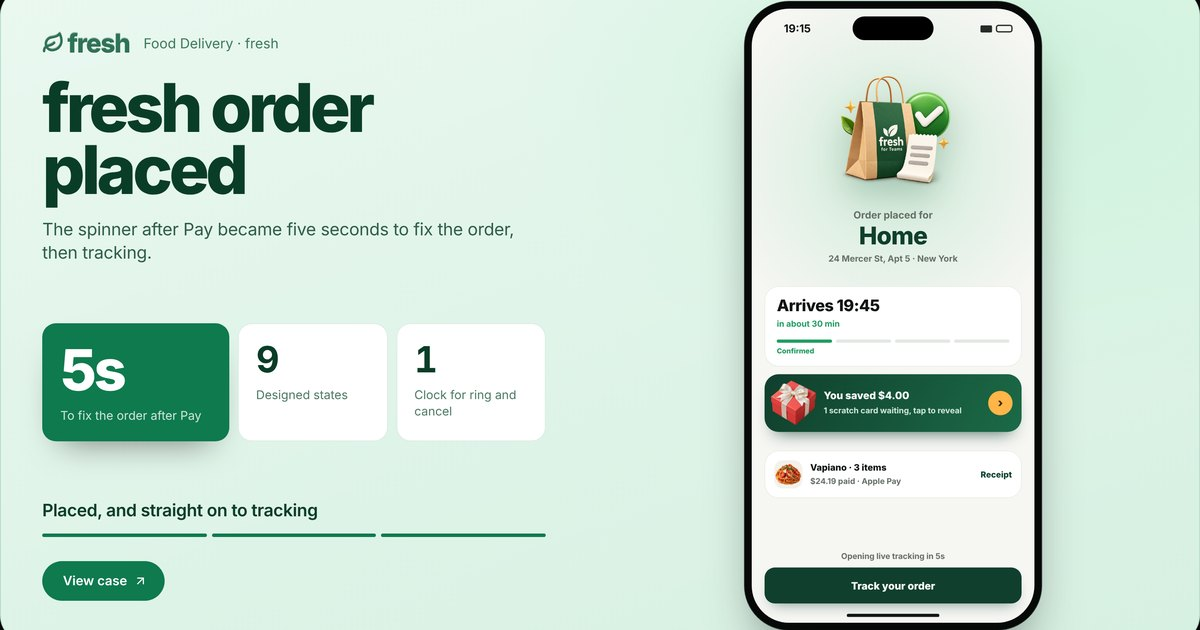
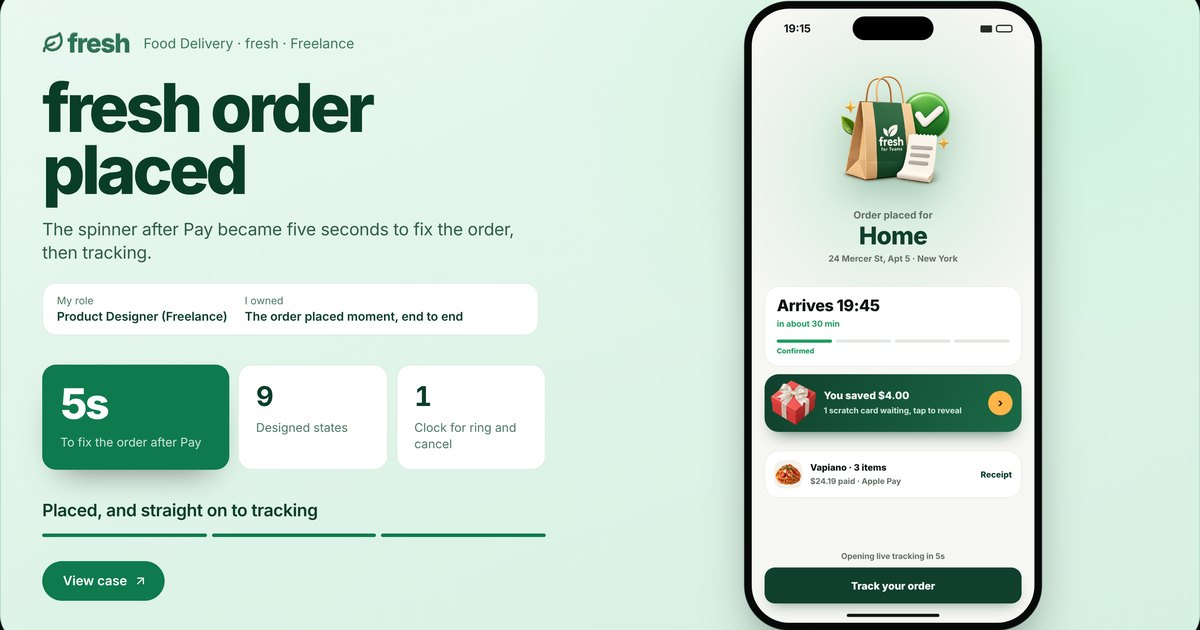
Case cards: a role strip on every card, and Sampo's real pilot numbers
- My role / Team / I owned / Duration in one format on each card;
  unconfirmed fields are left out. Sary and the report link to the
  recommendation that speaks to that work.
- Sampo: freelance, then Product Design Consultant (Contract), 14
  months. The headline numbers are the pilot results from the CV
  (+40% dashboard usage, -22% setup friction, +28% sign-up intent),
  replacing the design boards' sample data.
- Share images regenerated to match.

Claude-Session: https://claude.ai/code/session_0154BbPXDkrEcZa3AeQm1uvN

Changed region(s): [[0.0308, 0.4524, 0.4625, 0.7841], [0.2467, 0.0603, 0.3083, 0.0905]]

diff --git a/components/CaseReel.tsx b/components/CaseReel.tsx
@@ -1,6 +1,6 @@
 import { AnimatePresence, motion, useInView, useMotionValueEvent, useReducedMotion, useScroll, useTransform, type MotionValue } from 'motion/react';
 import { useEffect, useRef, useState, type ReactNode } from 'react';
-import { ArrowUpRight, Leaf } from 'lucide-react';
+import { ArrowUpRight, Leaf, Quote } from 'lucide-react';
 import { FUNNEL } from './case-studies/report/ReportData';
 import { SaryPhone } from './case-studies/sary/SaryPhone';
 import { FreshPhone, type PhoneState } from './case-studies/fresh/FreshPhone';
@@ -39,9 +39,9 @@ const STATS: Record<string, Stat[]> = {
     { v: 63.1, suf: '%', dp: 1, k: 'Used a section slider' },
   ],
   'sampo-ai-pricing': [
-    { v: 17, pre: '+', suf: '%', k: 'Winning mode, revenue', note: 'sample test' },
-    { v: 3, k: 'Modes tested before live' },
-    { v: 1, k: 'Click to undo' },
+    { v: 40, pre: '+', suf: '%', k: 'Dashboard usage', note: 'pilot' },
+    { v: 22, pre: '−', suf: '%', k: 'Setup friction' },
+    { v: 28, pre: '+', suf: '%', k: 'Sign-up intent' },
   ],
   'fresh-order-placed': [
     { v: 5, suf: 's', k: 'To fix the order after Pay' },
@@ -52,11 +52,32 @@ const STATS: Record<string, Stat[]> = {
 
 /* My part in each case, as each case study states it. A line recruiters
    look for first: who did what. */
-const ROLE: Record<string, string> = {
-  'sary-repeat-customers': 'Product Design Lead at Sary, led the Buy Again hub',
-  'sary-usability-report': 'Senior Product Designer, Experience Design: wrote the quarterly report',
-  'sampo-ai-pricing': 'Product Design Consultant (Contract): aligned founders, product and engineering, built and tested the prototype',
-  'fresh-order-placed': 'Freelance product designer: the order placed moment end to end',
+/* Who did what, the line reviewers look for first: role, team, what I
+   owned and how long, in one format on every card. Fields not yet
+   confirmed are left out rather than guessed. `proof` points to the
+   recommendation that speaks to this work. */
+type RoleFacts = { role: string; team?: string; owned?: string; duration?: string; proof?: string };
+const ROLE: Record<string, RoleFacts> = {
+  'sary-repeat-customers': {
+    role: 'Product Design Lead',
+    owned: 'The Buy Again hub, end to end',
+    proof: 'Mohammed Aldossary, Sary’s co-founder & CEO',
+  },
+  'sary-usability-report': {
+    role: 'Senior Product Designer',
+    owned: 'The quarterly usability report and its rituals',
+    proof: 'Asad Ali Shah, Director of Growth',
+  },
+  'sampo-ai-pricing': {
+    role: 'Freelance, then Product Design Consultant (Contract)',
+    team: 'Founders, engineering and growth',
+    owned: 'Pricing analysis, dashboards, onboarding',
+    duration: '14 months',
+  },
+  'fresh-order-placed': {
+    role: 'Product Designer (Freelance)',
+    owned: 'The order placed moment, end to end',
+  },
 };
 
 const COPY: Record<string, { name: string; line: string; tint: string; beats: string[] }> = {
@@ -409,6 +430,48 @@ function Stats({ p, stats, th }: { p: MotionValue<number>; stats: Stat[]; th: Th
   );
 }
 
+function RoleStrip({ facts, th }: { facts: RoleFacts; th: Theme }) {
+  const items: [string, string | undefined][] = [
+    ['My role', facts.role],
+    ['Team', facts.team],
+    ['I owned', facts.owned],
+    ['Duration', facts.duration],
+  ];
+  return (
+    <div className="mt-4 md:mt-5 max-w-xl">
+      <dl className="flex flex-wrap gap-x-5 gap-y-2.5 rounded-2xl px-4 py-3" style={{ background: th.tile.bg, border: `1px solid ${th.tile.border}` }}>
+        {items
+          .filter(([, v]) => v)
+          .map(([k, v]) => (
+            <div key={k} className="min-w-0">
+              <dt className="text-[11px] md:text-xs" style={{ color: th.tile.sub }}>
+                {k}
+              </dt>
+              <dd className="text-[13px] md:text-sm font-semibold leading-snug" style={{ color: th.tile.ink }}>
+                {v}
+              </dd>
+            </div>
+          ))}
+      </dl>
+      {facts.proof && (
+        <a
+          href="#recommendations"
+          onClick={(e) => {
+            e.preventDefault();
+            e.stopPropagation();
+            document.getElementById('recommendations')?.scrollIntoView({ behavior: 'smooth', block: 'start' });
+          }}
+          className="inline-flex items-center gap-1.5 mt-2.5 text-[13px] font-medium underline-offset-4 hover:underline"
+          style={{ color: th.ink }}
+        >
+          <Quote className="w-3.5 h-3.5" aria-hidden />
+          Recommended by {facts.proof}
+        </a>
+      )}
+    </div>
+  );
+}
+
 /* ── one card ──────────────────────────────────────────────────────── */
 
 const STICK = 88; // under the floating nav
@@ -505,14 +568,7 @@ function Card({
             </div>
             <h3 className="font-extrabold tracking-[-0.055em] leading-[0.92]" style={{ fontSize: 'clamp(38px, 5.2vw, 92px)', color: th.ink }}>{copy.name}</h3>
             <p className="text-base md:text-xl leading-snug mt-4 md:mt-5 max-w-xl tracking-[-0.01em]" style={{ color: th.sub }}>{copy.line}</p>
-            {ROLE[project.id] && (
-              <p className="text-sm md:text-[15px] leading-snug mt-3 max-w-xl" style={{ color: th.kicker }}>
-                <span className="font-semibold" style={{ color: th.ink }}>
-                  My role:
-                </span>{' '}
-                {ROLE[project.id]}
-              </p>
-            )}
+            {ROLE[project.id] && <RoleStrip facts={ROLE[project.id]} th={th} />}
           </div>
           {STATS[project.id] && (
             <div className="hidden lg:block">

diff --git a/components/AboutPage.tsx b/components/AboutPage.tsx
@@ -415,7 +415,7 @@ const PAST_ROLES: Role[] = [
     location: 'Finland (Remote)',
     stamps: [{ city: 'Helsinki', country: 'FI', flag: 'FI' }],
     lines: [
-      'Owned end-to-end design for an early-stage AI pricing engine: vision, structure, and launch UX.',
+      'Started as a freelance project and became a 14-month contract: owned end-to-end design for an early-stage AI pricing engine, from vision and structure to launch UX.',
       'Shipped the analysis dashboard and Alliance Perks UI: +40% pilot usage, +34% partner engagement, +28% sign-up intent.',
       'Cut onboarding friction 22% and worked directly with founders on GTM and roadmap.',
     ],
